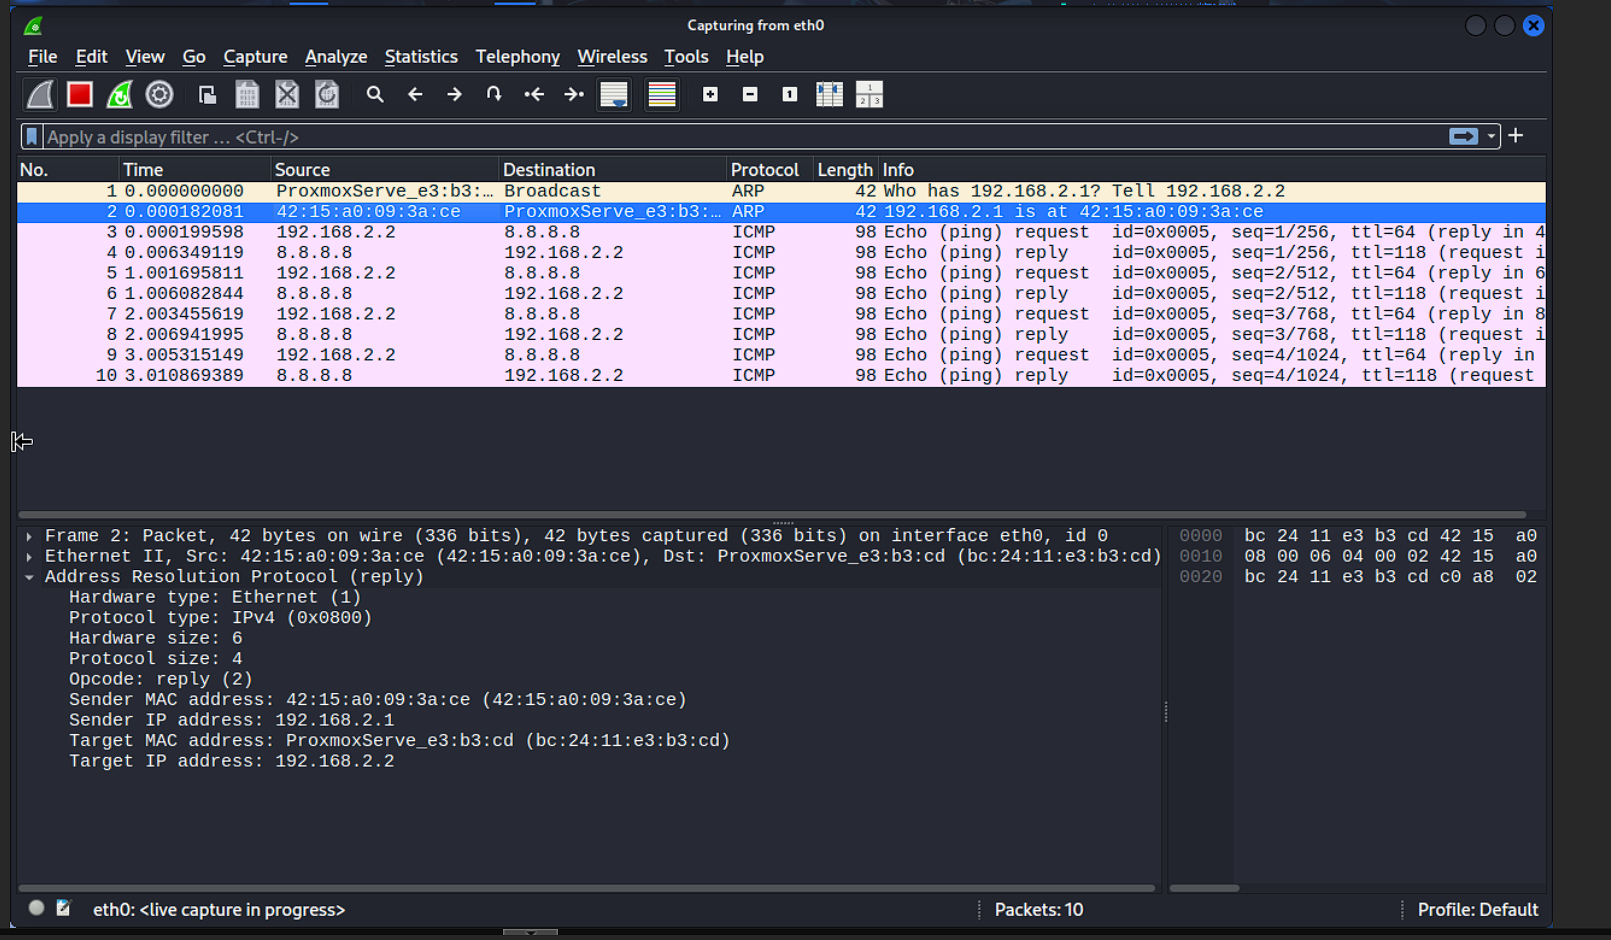
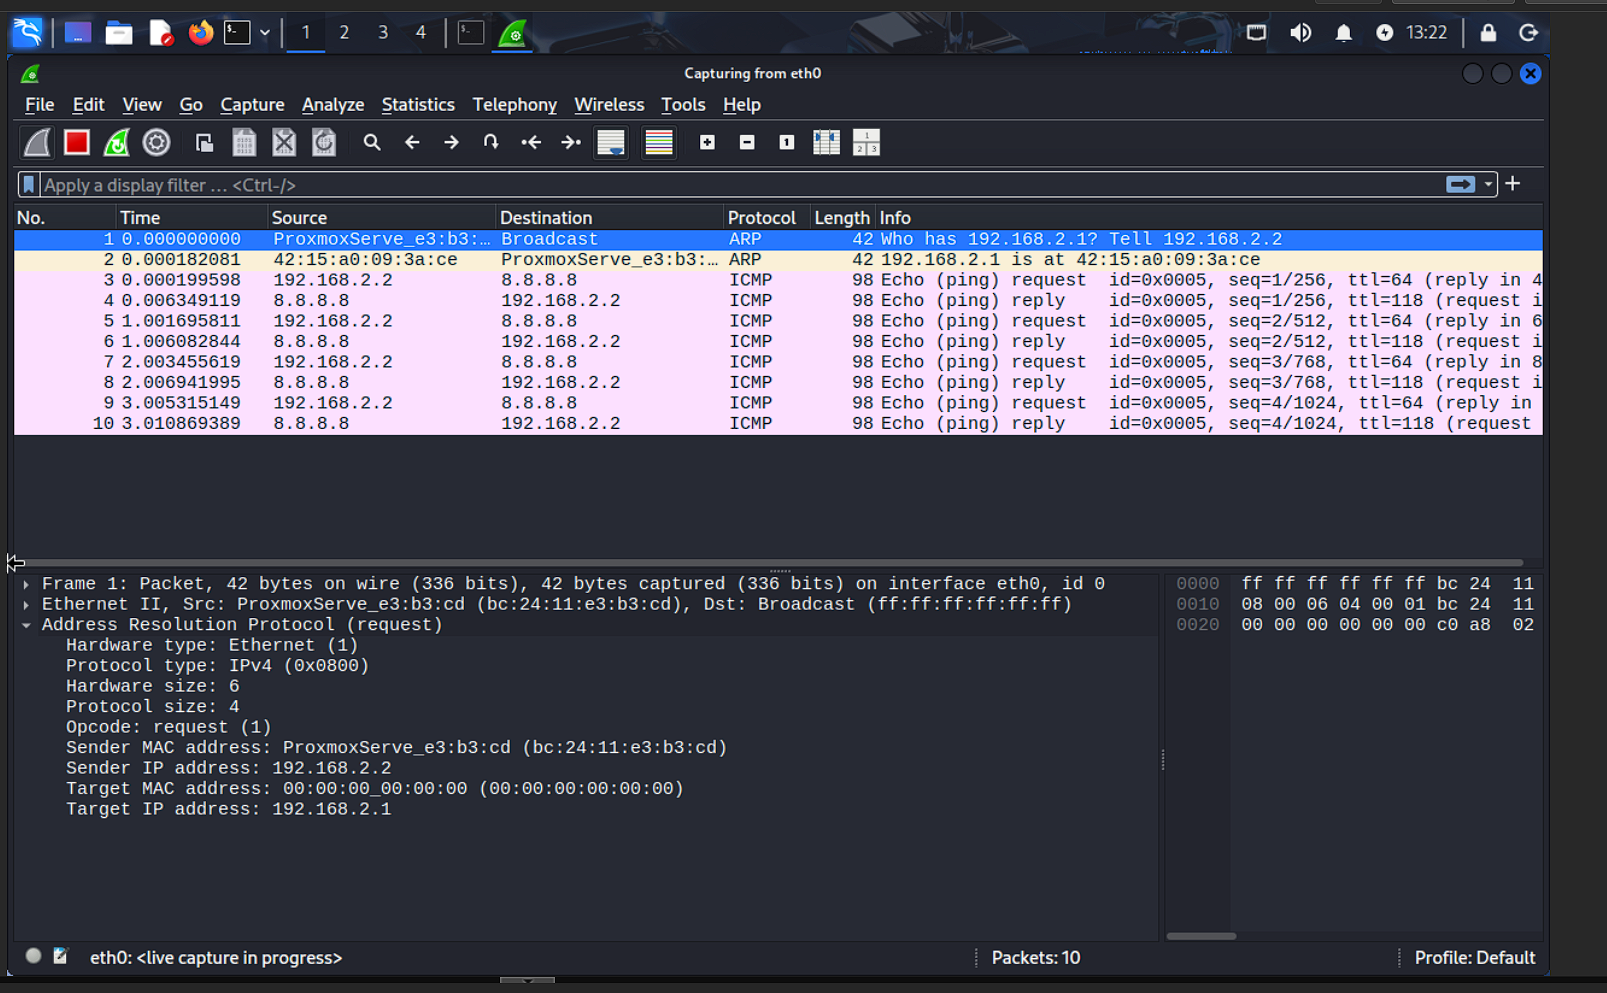
GITBOOK-144: No subject

diff --git a/net-150/labs/lab-7.1-vlsm.md b/net-150/labs/lab-7.1-vlsm.md
@@ -1,0 +1,30 @@
+# Lab 7.1 VLSM
+
+<figure><img src="../../.gitbook/assets/image.png" alt=""><figcaption></figcaption></figure>
+
+### Background
+
+PPC uses the private class B space of 172.16.0.0/16.  Currently all hosts are on the same network which is causing hate and discontent due to network performance impacts (hence, the sacking of Henry).  Here is some information which may help you in designing your subnet scheme.
+
+### Mumbai Divisions
+
+* Manufacturing will need 612 hosts
+* Engineering will need 31 hosts
+
+### North American Divisions
+
+* Sales is the largest division with a host requirement of 1200
+* HR needs 10 hosts &#x20;
+* Accounting will need space for 24 hosts **(note gateways are part of this number too)**
+
+&#x20;
+
+1200=2^(32-x)-2
+
+### Class Activity&#x20;
+
+<table data-header-hidden><thead><tr><th width="145">Name</th><th># Hosts</th><th width="150">CIDR</th><th>Network Address</th><th>First Usable Host Address</th><th>Last Usable Host Address</th><th>Broadcast Address</th><th data-hidden>Increment</th></tr></thead><tbody><tr><td>Sales (1200)</td><td>2048</td><td><p>172.16.0.0/21<br><br>172.16.0.0-172.16.7.255<br><br>21-16=5</p><p>2^5=32<br>32 subnets</p><p></p><p>256/32=8</p><p>Blocks of .8</p></td><td>172.16.0.0</td><td>172.16.0.1</td><td>172.16.7.254</td><td>172.16.7.255</td><td></td></tr><tr><td>Manufacturing (612)</td><td>1024</td><td>172.16.8.0/22<br><br>22-16=6<br>2^6=64<br>64 subnets<br><br>256/64=4<br>Blocks .4</td><td>172.16.8.0</td><td>172.16.8.1</td><td>172.16.11.254</td><td>172.16.11.255</td><td></td></tr><tr><td>Engineering (31)</td><td>64</td><td>172.16.12.0/26<br><br>26-24=2<br>2^2=4<br>4 subnets<br><br>256/4=64<br><br>Blocks of .0.63</td><td>172.16.12.0</td><td>172.16.12.1</td><td>172.16.12.62</td><td>172.16.12.63</td><td></td></tr><tr><td>Accounting (24)</td><td>32</td><td>172.16.12.64/27<br><br>27-24=3<br>2^3=8<br>8 subnets<br><br>256/8=32<br>Blocks of 0.31</td><td>172.16.12.64</td><td>172.16.12.65</td><td>172.16.12.94</td><td>172.16.12.95</td><td></td></tr><tr><td>HR (10)</td><td>16</td><td>172.16.12.96/28<br><br>28-24=4<br>2^3=16 subnets<br><br>256/16<br>Blocks of .16</td><td>172.16.12.96</td><td>172.16.12.97</td><td>172.16.12.110</td><td>172.16.12.111</td><td></td></tr><tr><td>Router Network (4?)</td><td>4</td><td>172.16.12.112/30<br><br>Blocks of .4</td><td>172.16.12.112</td><td>172.16.12.113</td><td>172.16.12.114</td><td>172.16.12.115</td><td></td></tr><tr><td> </td><td></td><td></td><td></td><td></td><td></td><td></td><td></td></tr></tbody></table>
+
+Hint:  Order in Descending Order
+
+<br>

diff --git a/net-150/labs/lab-3-1-arp-observation.md b/net-150/labs/lab-3-1-arp-observation.md
@@ -20,7 +20,7 @@ Any problems you ran into during the lab, and what troubleshooting steps you too
    * **Deliverable 1: Find the ARP broadcast that your computer used to find the gateway's MAC address. Provide a screenshot that shows the source and destination MAC address of this broadcast.**
      *
 
-         <figure><img src="../../.gitbook/assets/image.png" alt=""><figcaption></figcaption></figure>
+         <figure><img src="../../.gitbook/assets/image (1).png" alt=""><figcaption></figcaption></figure>
      * In this screenshot, you can see the ARP requests made to the gateway from the Kali Machine. If you look at the bottom left, you can identify the sender MAC address, bc:24:11:e3:b3:cd, and the target MAC address, 00:00:00\_00:00:00. The target MAC address is empty because the device does not know the MAC address and is trying to identify it via ARP.&#x20;
    * **Deliverable 2: Find the ARP reply from the gateway back to your computer. Provide a screenshot that shows the ARP reply packet indicating the MAC address for your gateway.**
      *

diff --git a/SUMMARY.md b/SUMMARY.md
@@ -39,6 +39,7 @@
   * [Lab 3-1: ARP Observation](net-150/labs/lab-3-1-arp-observation.md)
   * [Lab 3-2: Exploring Broadcast Domains](net-150/labs/lab-3-2-exploring-broadcast-domains.md)
   * [Lab 4-2: Classful Subnetting](net-150/labs/lab-4-2-classful-subnetting.md)
+  * [Lab 7.1 VLSM](net-150/labs/lab-7.1-vlsm.md)
 * [Assignments](net-150/assignments/README.md)
   * [Class Activity 4.1](net-150/assignments/class-activity-4.1.md)
 * [Glossary](net-150/glossary.md)
